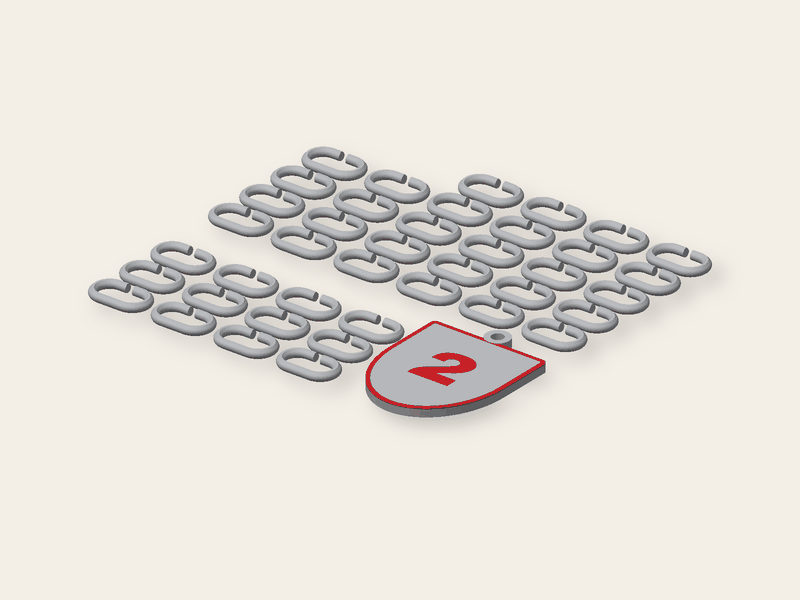
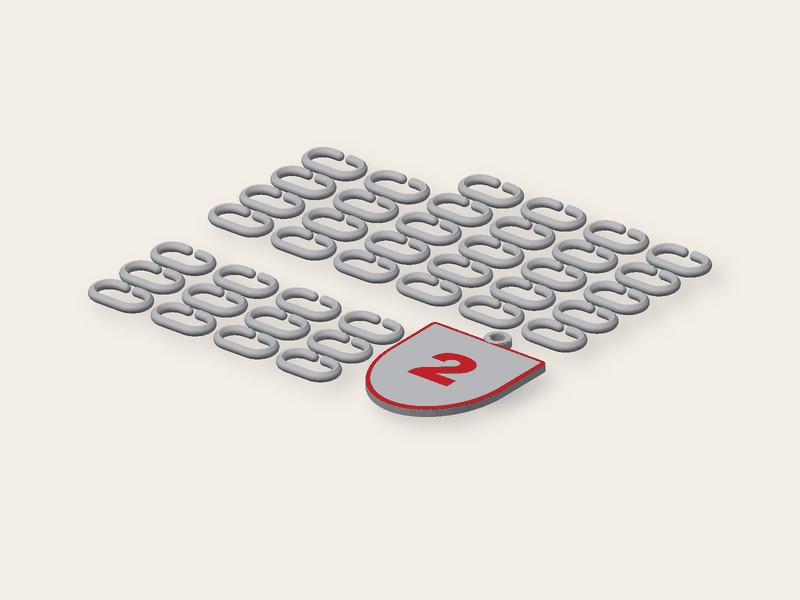
Medal round 4: rounded medal edges, round link ends, links 1.6 mm apart (TODO #33)
- The plate's outline is rounded by 1 mm: a quarter round on top, at the bottom
  round down to 45° and a 45° slope to the bed (no supports); eyelet and hole too.
  Flush: the rim takes the rounding, its face stays flat. Raised: rim and motif
  stand on the flat of the top.
- The ends of a link's gap are the bar's profile turned round (half ball ⌀4),
  tips 1.6 mm apart instead of 3.6 between flat ends: snaps in by opening
  2.4 mm (about 19 N, 1.2 % strain); notes.chain.tips.
- Parts of a face-down medal keep the medal's frame (parts["_shared"]): the farm
  puts one-plate parts together by coordinates, and without the rim the number
  went to the plate's corner.
- Examples redrawn; docs/P.md §8c with the slice (40.10 g + 1.37 g, 4 changes,
  1 h 43 min; with supports allowed none is built).

diff --git a/engines/python/shape_kinds.py b/engines/python/shape_kinds.py
@@ -213,11 +213,16 @@ def _caption(M, p, layers, info, text, body_kind, fit_d, warn):
     return layers, info
 
 
-LINK = (30.0, 18.0, 4.0, 0.4)    # a chain link: long, wide, the bar, and how much narrower than the bar its gap is (it snaps in)
+# a chain link: long, wide, the bar, and how far apart the round tips of its gap are. The neighbour's bar (4 mm) goes
+# through 1.6 mm only when the link opens 2.4 mm in its plane: about 19 N by hand and 1.2 % strain at the far side, well
+# under what PLA takes (docs/P.md §8c). With 3.6 mm between flat ends (round 3) the chain came apart by itself.
+LINK = (30.0, 18.0, 4.0, 1.6)
 CHAIN_BED = 220.0                # the medal and its chain are one plate of the smallest bed of the farm's printers
 LINK_FLAT = 1.0                  # the flat strip a link stands on, too narrow to see once printed
 LINK_OVERHANG = 45.0             # the steepest the underside of a link leans out, from the vertical: prints without supports
 LINK_SLICES = 16                 # points up each side of the round bar's profile
+MEDAL_ROUND = 1.0                # a medal's outline is rounded by this much at its top and its bottom
+MEDAL_STEPS = 10                 # slabs of each rounded edge: a tenth of a millimetre, finer than a layer
 
 
 def _link_profile(bar):
@@ -244,13 +249,14 @@ def _link_profile(bar):
 def _link(M):
     """
     One open link: an oval ring with a gap in the middle of one long side, where a chain under load does not pull. The
-    bar is round (_link_profile): soft in the hand, and it prints lying on the bed without supports. The gap is
-    narrower than the bar by `snap`, so the neighbour, pushed through, clicks in and stays.
+    bar is round (_link_profile): soft in the hand, and it prints lying on the bed without supports. Both ends of the
+    gap are round, the bar's profile turned round its end (a half ball on the same slopes underneath), `tips` apart:
+    much less than the bar, so the neighbour clicks in and stays.
     """
     import numpy as np
     C = M.CrossSection
-    long, wide, bar, snap = LINK
-    gap = bar - snap
+    long, wide, bar, tips = LINK
+    gap = tips + bar                                         # the cut; each round end reaches half a bar back into it
     height, half, _ = _link_profile(bar)
     mid = wide / 2 - bar / 2                                 # the radius of the line the bar runs along, at the round ends
     zs = [height * i / LINK_SLICES for i in range(LINK_SLICES + 1)]
@@ -266,7 +272,37 @@ def _link(M):
     sides = [side.transform(to_x).translate([wide / 2 - 0.01, wide / 2 + s * mid, 0]) for s in (-1, 1)]
     link = _fused(M, [ends] + sides)
     cut = M.Manifold.cube([gap, bar + 2, height + 2]).translate([long / 2 - gap / 2, wide - bar - 1, -1])
-    return link - cut
+    cap = M.Manifold.revolve(C([[(0.0, 0.0)] + right + [(0.0, height)]]), 24, 360.0)      # its back half lies in the bar
+    return link - cut + cap.translate([long / 2 - gap / 2, wide - bar / 2, 0]) + cap.translate([long / 2 + gap / 2, wide - bar / 2, 0])
+
+
+def _soft_plate(M, outline, t, r):
+    """
+    A medal's plate with its outline rounded by r: at the top a quarter round, at the bottom as a link stands on the bed
+    (_link_profile): round down to where it leans out LINK_OVERHANG, then straight at that slope to the bed, so it
+    prints without supports. In slabs of a tenth of a millimetre; the hole of the eyelet is rounded the same way.
+    """
+    J = M.JoinType.Round
+    a = math.radians(LINK_OVERHANG)
+    z45 = r * (1 - math.sin(a))                              # where the round leans out as far as a print allows
+
+    def inset(z):
+        if z < z45:
+            return r * (1 - math.cos(a)) + (z45 - z) * math.tan(a)
+        if z < r:
+            return r - math.sqrt(max(r * r - (r - z) ** 2, 0.0))
+        if z > t - r:
+            return r - math.sqrt(max(r * r - (z - t + r) ** 2, 0.0))
+        return 0.0
+
+    dz = r / MEDAL_STEPS
+    solid = outline.extrude(t - 2 * r + 0.02).translate([0, 0, r - 0.01])
+    for i in range(MEDAL_STEPS):
+        for z0 in (i * dz, t - r + i * dz):
+            ring = outline.offset(-inset(z0 + dz / 2), J, 2.0, 32)
+            if not ring.is_empty():
+                solid = solid + ring.extrude(dz + 0.01).translate([0, 0, z0 - (0.01 if z0 > 0 else 0.0)])
+    return solid
 
 
 def _fused(M, solids):
@@ -629,9 +665,17 @@ def build(M, Invalid, p, product):
             # a change of filament by height colours everything above it on the bed, links too: they stay under the plate's top
             t = round(tall, 2)
             notes["thickened"] = t
+    soft = MEDAL_ROUND if medal else 0.0
+    if medal and not face_down:
+        # raised: what stands on the plate stands on the flat of its top, inside the rounded edge
+        flat = plate2d.offset(-soft, J, 2.0, 32)
+        for layer in layers:
+            layer["own"], layer["stack"] = layer["own"] ^ flat, layer["stack"] ^ flat
+        medal2d = medal2d.offset(-soft, J, 2.0, 32)
     if border and layers:
         # the rim round the medal goes with the motif's first colour: raised, one step high (every band of layers keeps
-        # one filament); flush, in the same bottom layers as the motif, smooth on the face
+        # one filament); flush, in the same bottom layers as the motif, smooth on the face, its outer edge rounded with
+        # the plate's
         lem2d = medal2d - medal2d.offset(-2.0, J, 2.0, 32)
         if ring_out is not None:
             lem2d = lem2d - ring_out.offset(0.01, J, 2.0, 24)
@@ -647,7 +691,12 @@ def build(M, Invalid, p, product):
     else:
         top = t + count * step
         solids = [(layer, layer["stack"].extrude(step).translate([0, 0, t + i * step])) for i, layer in enumerate(layers)]
-    body = _rounded_top(M, plate2d, t, ROUND) if biscuit else plate2d.extrude(t)
+    if medal:
+        body = _soft_plate(M, plate2d, t, soft) if soft > 0 else plate2d.extrude(t)
+        if face_down:
+            solids = [(layer, s ^ body) for layer, s in solids]      # the motif and the rim take the rounded edge of the face
+    else:
+        body = _rounded_top(M, plate2d, t, ROUND) if biscuit else plate2d.extrude(t)
     if bevel and not rim and edge >= 0.4 and not biscuit:
         c = min(0.8, edge, t * 0.3)
         body = plate2d.extrude(t - c)
@@ -725,7 +774,7 @@ def build(M, Invalid, p, product):
             body, whole = body + links, whole + links
             h, _, c = _link_profile(LINK[2])
             notes["chain"] = {"links": chain[3], "length": round(chain[3] * (LINK[0] - 2 * LINK[2]) / 10.0) * 10,
-                              "profile": {"height": round(h, 2), "flat": LINK_FLAT, "overhang": LINK_OVERHANG}}
+                              "profile": {"height": round(h, 2), "flat": LINK_FLAT, "overhang": LINK_OVERHANG}, "tips": LINK[3]}
             if chain[3] < asked:
                 notes["chain"]["asked"] = asked
                 warn.append("links_cut")
@@ -830,6 +879,7 @@ def build(M, Invalid, p, product):
     parts["all"] = laid(fused)
     parts["_pieces"] = {"all": pieces}
     if face_down:
+        parts["_shared"] = True                              # one plate: every part where the medal has it
         # the preview shows the medal as it is worn: turned over, its face up and the number reading right
         parts["use"] = parts["all"].rotate([0, 180, 0])
         parts["_pieces"]["use"] = [(name, solid.rotate([0, 180, 0])) for name, solid in pieces]

diff --git a/tests/Feature/ShapeToolsTest.php b/tests/Feature/ShapeToolsTest.php
@@ -538,6 +538,25 @@ class ShapeToolsTest extends TestCase
         return [$sum / max($weight, 1e-9), $lo, $hi];
     }
 
+    /** How wide (in x) an STL is at the height z: the corners that lie there. */
+    private static function spanAt(string $stl, float $z): float
+    {
+        $n = unpack('V', substr($stl, 80, 4))[1];
+        $lo = INF;
+        $hi = -INF;
+        for ($i = 0; $i < $n; $i++) {
+            $v = array_values(unpack('f12', substr($stl, 84 + 50 * $i, 48)));
+            for ($c = 0; $c < 3; $c++) {
+                if (abs($v[5 + 3 * $c] - $z) < 0.002) {
+                    $lo = min($lo, $v[3 + 3 * $c]);
+                    $hi = max($hi, $v[3 + 3 * $c]);
+                }
+            }
+        }
+
+        return $hi - $lo;
+    }
+
     /** How many separate bodies a binary STL holds: triangles that share a corner belong together. */
     private static function bodies(string $stl): int
     {
@@ -565,7 +584,7 @@ class ShapeToolsTest extends TestCase
         $one = ['line1' => '1', 'typeface' => 'archivo'];
         // what the tool starts with: flush, the number at 55 % of 60 mm, a rim, forty links, one plate of a 220 mm bed
         $first = $this->meta($this->preview('medallion', $one, 'all', true)->assertOk());
-        $this->assertSame(['links' => 40, 'length' => 880, 'profile' => ['height' => 4.33, 'flat' => 1, 'overhang' => 45]], $first['notes']['chain']);
+        $this->assertSame(['links' => 40, 'length' => 880, 'profile' => ['height' => 4.33, 'flat' => 1, 'overhang' => 45], 'tips' => 1.6], $first['notes']['chain']);
         $this->assertLessThanOrEqual(220, max($first['bbox']['x'], $first['bbox']['y']));
         $this->assertSame([], $first['notes']['warnings']);
 
@@ -585,6 +604,18 @@ class ShapeToolsTest extends TestCase
         $this->assertSame(2, self::bodies($red->streamedContent() ?: $red->getContent()), 'the rim and the one');
         $this->assertLessThanOrEqual(60.01, $parts['color_1']['bbox'][3]);
         $this->assertLessThanOrEqual($parts['body']['bbox'][4], $parts['color_1']['bbox'][4]);
+        // the outline rounded by 1 mm (round 4): on the bed the face starts 0.59 mm in (a 45° slope up to the round), the
+        // back a quarter round; the rim takes the rounding of the face, its face stays flat
+        $plate = $this->preview('medallion', $one + ['links' => 0])->assertOk();
+        $plate = $plate->streamedContent() ?: $plate->getContent();
+        $this->assertEqualsWithDelta(60 - 2 * 0.536, self::spanAt($plate, 0.0), 0.05, 'the face on the bed');
+        $this->assertEqualsWithDelta(60 - 2 * 0.688, self::spanAt($plate, 4.4), 0.05, 'the back');
+        $rim = $red->streamedContent() ?: $red->getContent();
+        $this->assertEqualsWithDelta(60 - 2 * 0.536, self::spanAt($rim, 0.0), 0.05);
+        // one plate: the part lies where the medal has it, not moved to its own corner (the farm puts the parts together
+        // by their coordinates; 0.06 mm off was a conflict of paths in the slicer)
+        $this->assertEqualsWithDelta($parts['color_1']['bbox'][0], self::middleX($rim)[1], 0.01);
+        $this->assertGreaterThan(0.05, self::middleX($rim)[1]);
         // its eyelet is not dragged: no outline, so the page shows no grip (it stood among the links of the turned preview)
         $this->assertArrayNotHasKey('outline', $first['notes']);
         // deeper on request (fewer or more changes of filament: the page says how many the slice gives)
@@ -596,6 +627,9 @@ class ShapeToolsTest extends TestCase
         $bare = $this->meta($this->preview('medallion', $one + ['border' => false, 'links' => 0], 'all', true)->assertOk());
         $box = collect($bare['parts'])->firstWhere('name', 'color_1')['bbox'];
         $this->assertEqualsWithDelta(0.55 * 60, hypot($box[3] - $box[0], $box[4] - $box[1]), 1.0);
+        // the number alone as the farm gets it: in the middle of the medal, not in its corner
+        $number = $this->preview('medallion', $one + ['border' => false, 'links' => 0], 'color_1')->assertOk();
+        $this->assertEqualsWithDelta($box[0], self::middleX($number->streamedContent() ?: $number->getContent())[1], 0.01);
         $big = collect($this->meta($this->preview('medallion', $one + ['border' => false, 'links' => 0, 'motif_size' => 80], 'all', true)->assertOk())['parts'])->firstWhere('name', 'color_1')['bbox'];
         $this->assertGreaterThan(1.3 * ($box[4] - $box[1]), $big[4] - $big[1]);
 
@@ -607,9 +641,9 @@ class ShapeToolsTest extends TestCase
         // the eyelet on top, on the axis
         $this->assertEqualsWithDelta($bare['bbox']['x'] / 2, $bare['notes']['eyelet']['x'], 0.1);
 
-        // the links: round bars on a flat of 1 mm, 838 mm³ each
+        // the links: round bars on a flat of 1 mm, round ends 1.6 mm apart, 846 mm³ each
         $chainless = $this->meta($this->preview('medallion', $one + ['links' => 0])->assertOk());
-        $this->assertEqualsWithDelta(40 * 838.3, $first['volume_mm3'] - $chainless['volume_mm3'], 40 * 8);
+        $this->assertEqualsWithDelta(40 * 845.9, $first['volume_mm3'] - $chainless['volume_mm3'], 40 * 2);
 
         // seven shapes, each one closed solid on the bed with the eyelet on its axis
         foreach (['circle', 'star', 'hex', 'shield', 'octagon', 'rosette', 'heart'] as $body) {
@@ -656,6 +690,8 @@ class ShapeToolsTest extends TestCase
         $this->assertEqualsWithDelta(4.4, $parts['color_1']['bbox'][2], 0.001);
         $this->assertEqualsWithDelta(5.0, $parts['color_1']['bbox'][5], 0.001);
         $this->assertEqualsWithDelta(4.4, $parts['body']['bbox'][5], 0.001, 'nothing of the plate or the chain above the change');
+        // the rim stands on the flat of the top, inside the plate's rounded edge (1 mm)
+        $this->assertEqualsWithDelta(58.0, $parts['color_1']['bbox'][3] - $parts['color_1']['bbox'][0], 0.1);
 
         // not mirrored: as printed, the stem of an L is left of its middle
         $letter = $this->preview('medallion', ['line1' => 'L', 'links' => 0, 'border' => false, 'motif' => 'raised'], 'color_1')->assertOk();

diff --git a/engines/python/param_tool.py b/engines/python/param_tool.py
@@ -1042,12 +1042,18 @@ def main(argv):
         # a builder that knows its pieces itself (a picture in colours: every colour a part) says so; the others are
         # recognised in the finished solid
         named = parts.pop("_pieces", {})
+        shared = parts.pop("_shared", False)
         key = part if (part != "all" and part in parts) else ("use" if (view == "use" and "use" in parts) else "all")
         solid = parts[key]
         if solid.is_empty() or solid.status() != M.Error.NoError or solid.volume() <= 0:
             raise Invalid("empty_result")
         x0, y0, z0, x1, y1, z1 = solid.bounding_box()
-        solid = solid.translate([-x0, -y0, -z0])
+        at = (x0, y0, z0)
+        if shared and key not in ("all", "use"):
+            # parts printed side by side in one plate (a medal face down): each in the place the whole has it, so the
+            # farm and the order page can put them together again (a rim rounded at its edge starts off the corner)
+            at = parts["all"].bounding_box()[:3]
+        solid = solid.translate([-at[0], -at[1], -at[2]])
         listed = []
         if with_parts:
             chunks, at = [], 0

diff --git a/docs/P.md b/docs/P.md
@@ -781,3 +781,62 @@ filamenty (TODO #31, AL.md §10), takže lícem dolů jde tisknout.
 Slicer střídá pořadí barev po vrstvách, takže sudý počet vrstev nestojí výměnu navíc (2·⌈n/2⌉). V G-kódu není
 `;TYPE:Support`. Pro srovnání: tatáž medaile jednou barvou (vystouplá bez výměn) má 38,6 g a 1 h 26 min. Výměny a věž
 tedy stojí asi 16 minut a 1,4 g.
+
+### 8c. Kolo 4: zaoblené hrany medaile, kulaté konce článků, menší mezera (20. 10. 2026)
+
+Zadání: `docs/prompts/medaile-kolo4.md` (TODO #33), po prvním dvoubarevném výtisku F26‑000089 na Kobře X.
+
+- **Zaoblený obrys medaile** (`_soft_plate`, `MEDAL_ROUND = 1.0`), u obou motivů:
+  - Nahoře plná čtvrtkružnice 1 mm.
+  - Dole, kde leží líc (u vystouplého motivu rub), zaoblení 1 mm jako u článků: kruh jen tam, kde se nevyklání víc
+    než 45° od svislice, pod ním rovný sklon 45° k podložce. Líc tak začíná 0,59 mm od obrysu.
+  - Model je ve vrstvičkách po 0,1 mm (polovina vrstvy), ve slicu jsou schody neviditelné.
+  - Zaoblená je jen vnější hrana placky (kruh, hvězda, štít…). Očko i jeho otvor se zaoblí stejně, zadarmo, protože
+    jde o tentýž obrys.
+  - Lem a motiv: u zarovnaného motivu zůstává líc plochý v rovině podložky. Vnější hrana lemu dostane zaoblení
+    placky, takže kraj je ve spodních 0,6 mm v barvě lemu, nad ním v barvě placky. U vystouplého motivu stojí lem
+    i motiv na ploše vršku, uvnitř zaoblení: lem je pořád 2 mm, jen o 1 mm dál od kraje (58 mm napříč).
+- **Kulaté konce článků**: konec mezery je profil článku otočený kolem osy konce, tedy půlkoule ⌀ 4 nahoře a stejné
+  zkosení 45° s ploškou 1 mm dole. Bez podpěr.
+- **Menší mezera**: `LINK = (30, 18, 4, 1.6)`, čtvrté číslo je nově vzdálenost špiček kulatých konců. Dřív byla mezera
+  3,6 mm mezi rovnými konci, teď jsou špičky od sebe 1,6 mm, tedy o 2 mm méně. Výpočet zacvaknutí:
+  - Sousední příčka ⌀ 4 projde, když se článek ve své rovině rozevře o 4 − 1,6 = **2,4 mm** (přesah).
+  - Článek jako zakřivený nosník (střednice: rovné strany 12 mm ve vzdálenosti 14 mm, oblouky R 7), dvě síly na
+    špičkách mezery: ∫y²ds = 5 585 mm³, I = π·4⁴/64 = 12,6 mm⁴.
+  - Síla F = δ·E·I / ∫y²ds ≈ 2,4 · 3 500 · 12,6 / 5 585 ≈ **19 N** (asi 2 kg v prstech).
+  - Nejvíc namáhaná je protější strana (rameno 14 mm): poměrné prodloužení ε = 14 · 2 · 2,4 / 5 585 ≈ **1,2 %**. PLA
+    pruží asi do 2–3 %, takže článek se rozevře a vrátí. Nepovolí sám od sebe: tah řetězu medaili (40 g) je
+    o dva řády menší než 19 N.
+  - Kdyby to bylo moc tuhé nebo moc volné, mění se jediné číslo `LINK[3]` (1,6). Notes nesou `chain.tips`.
+  - Objem článku 845,9 mm³ (dřív 838,3), 4 398 trojúhelníků.
+- **Díly v jednom rámu** (`parts["_shared"]`, `param_tool.py`; oprava chyby, která je v produkci):
+  - Dosud `param_tool.py` posunul každý díl do jeho vlastního rohu. Farma (`PrepareFarmOrder::prepareOnePlate`)
+    i náhled zakázky ale skládají díly podle jejich souřadnic.
+  - U medaile s lemem to sedělo jen náhodou: lem začínal v rohu placky. Bez lemu (`border` vypnutý) dostala farma
+    číslo v rohu placky (0, 0) místo na (20, 17), ověřeno proti `main`.
+  - Se zaobleným lemem by byl lem posunutý o 0,06 mm.
+  - Teď díl medaile lícem dolů leží tam, kde ho má celá medaile. Platí jen pro díly s `_shared` (dnes zarovnaná
+    medaile). Velikost dílu v `bbox` zůstává jeho vlastní.
+- **Ukázky** jsou překreslené (`matplace:tool-examples medallion --force`), protože je vidět zaoblení i kulaté konce.
+- **Testy** (`ShapeToolsTest`):
+  - šířka líce na podložce 60 − 2 · 0,536 a rubu 60 − 2 · 0,688,
+  - lem zaoblený s plackou,
+  - díl lemu v rámu medaile,
+  - `chain.tips`, objem článků,
+  - vystouplý lem 58 mm na ploše vršku.
+
+**Řez** (AnycubicSlicerNext 2.0.0.3 CLI; profily farmy: `machine.json`, `process_standard.json`, `filament_pla.json`).
+Model: výchozí medaile 60 mm, „1“, lem, 40 článků.
+
+| co | podpěry | filament | čas |
+|---|---|---|---|
+| jedna podložka, dva filamenty (3MF po dílech + `ONE_PLATE_PROCESS`), hloubka 0,6 | vypnuté jako na farmě | 40,10 g + 1,37 g, `total filament change` = 4 | 1 h 43 min |
+| totéž v kole 3 | vypnuté | 39,95 g + 1,40 g, 4 výměny | 1 h 42 min |
+| celá medaile jednou barvou | **zapnuté** (`tree(auto)`, práh 30°) | 39,40 g | 1 h 27 min |
+
+S povolenými podpěrami slicer žádnou nepostavil: v G-kódu není `;TYPE:Support` ani `;TYPE:Overhang wall`, 22 vrstev.
+Dvoubarevnou podložku se zapnutými podpěrami Orca neřeže vůbec. Hlásí konflikt drah mezi díly, a to i u kola 3, takže
+tak se řez dělat nedá. Farma podpěry nezapíná.
+
+**Co ověří až tisk**: jestli jde článek s přesahem 2,4 mm zacvaknout rukou bez prasknutí. Jestli ne, stačí změnit
+`LINK[3]` (třeba na 2,0). Dál jestli spodní zaoblení 45° nechá na líci čistý kraj lemu.
